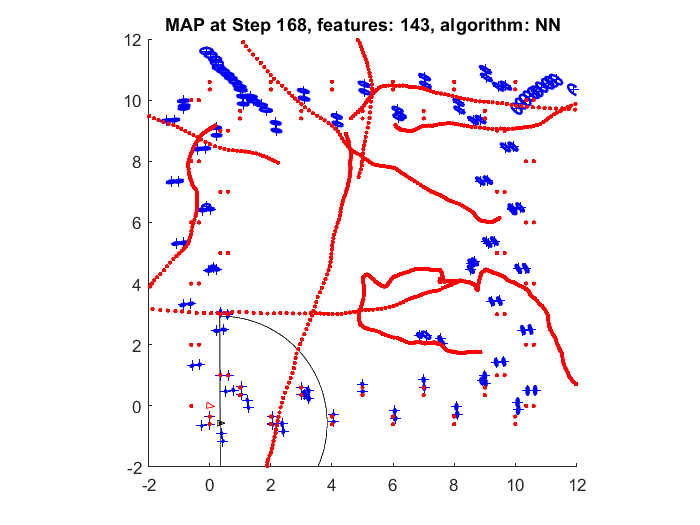
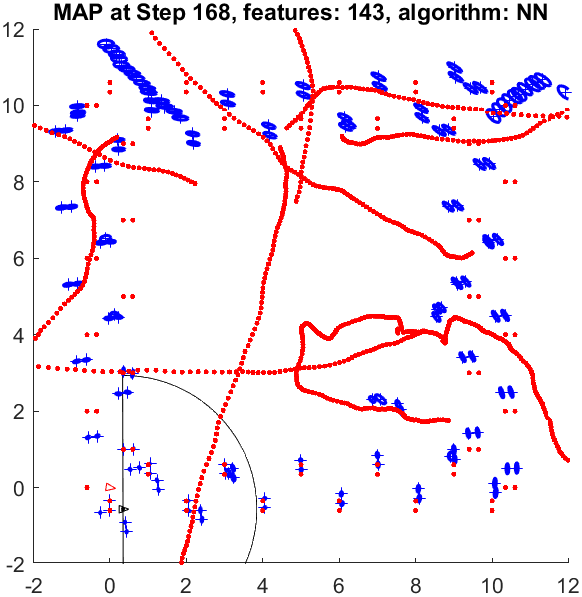
graphics map mantainance

diff --git a/lab2/show_results.m b/lab2/show_results.m
@@ -6,6 +6,7 @@ function show_results(map, ground, results),
 % slam, explore data association algorithms
 %-------------------------------------------------------
 global chi2;
+global configuration;
 
 figure; hold on;
 
@@ -32,19 +33,19 @@ es = [map.estimated(:).P];
 
 figure; hold on;
 subplot(1, 3, 1); hold on; axis square;
-title('Vehicle error in x (m)');
+title(sprintf('Vehicle error in x (m): %s', configuration.name));
 plot(g(1,:)-e(1,:), 'b-');
 plot(sqrt(chi2(1)*es(1,1:3:end)), 'r-');
 plot(-sqrt(chi2(1)*es(1,1:3:end)), 'r-');
 
 subplot(1, 3, 2); hold on; axis square;
-title('Vehicle error in y (m)');
+title(sprintf('Vehicle error in y (m): %s', configuration.name));
 plot(g(2,:)-e(2,:), 'b-');
 plot(sqrt(chi2(1)*es(2,2:3:end)), 'r-');
 plot(-sqrt(chi2(1)*es(2,2:3:end)), 'r-');
 
 subplot(1, 3, 3); hold on; axis square;
-title('Vehicle error in theta (deg)');
+title(sprintf('Vehicle error in theta (deg): %s', configuration.name));
 plot((normalize(g(3,:)-e(3,:)))*180/pi, 'b-');
 plot(sqrt(chi2(1)*es(3,3:3:end))*180/pi, 'r-');
 plot(-sqrt(chi2(1)*es(3,3:3:end))*180/pi, 'r-');

diff --git a/lab2/data_association.m b/lab2/data_association.m
@@ -19,7 +19,7 @@ disp(['GROUND  TRUTH: ' sprintf('%2d  ', GT)]);
 % 5. Try JCBB without odometry
 % 6. Eliminate features included in the map two steps ago, and never seen again
 
-H = NN (prediction, observations, compatibility);
+H = SINGLES (prediction, observations, compatibility);
 
 disp(['MY HYPOTHESIS: ' sprintf('%2d  ', H)]);
 disp(['Correct (1/0)? ' sprintf('%2d  ', GT == H)]);

diff --git a/lab2/karel2d_lab2.m b/lab2/karel2d_lab2.m
@@ -20,7 +20,7 @@ configuration.odometry = 1;
 configuration.noise = 1;
 configuration.alpha = 0.99; % only useful is chi2inv is available
 configuration.step_by_step = 0;
-configuration.people = 0;
+configuration.people = 1;
 configuration.ekf_iterations = 4;
 configuration.maintenance = 1;
 
